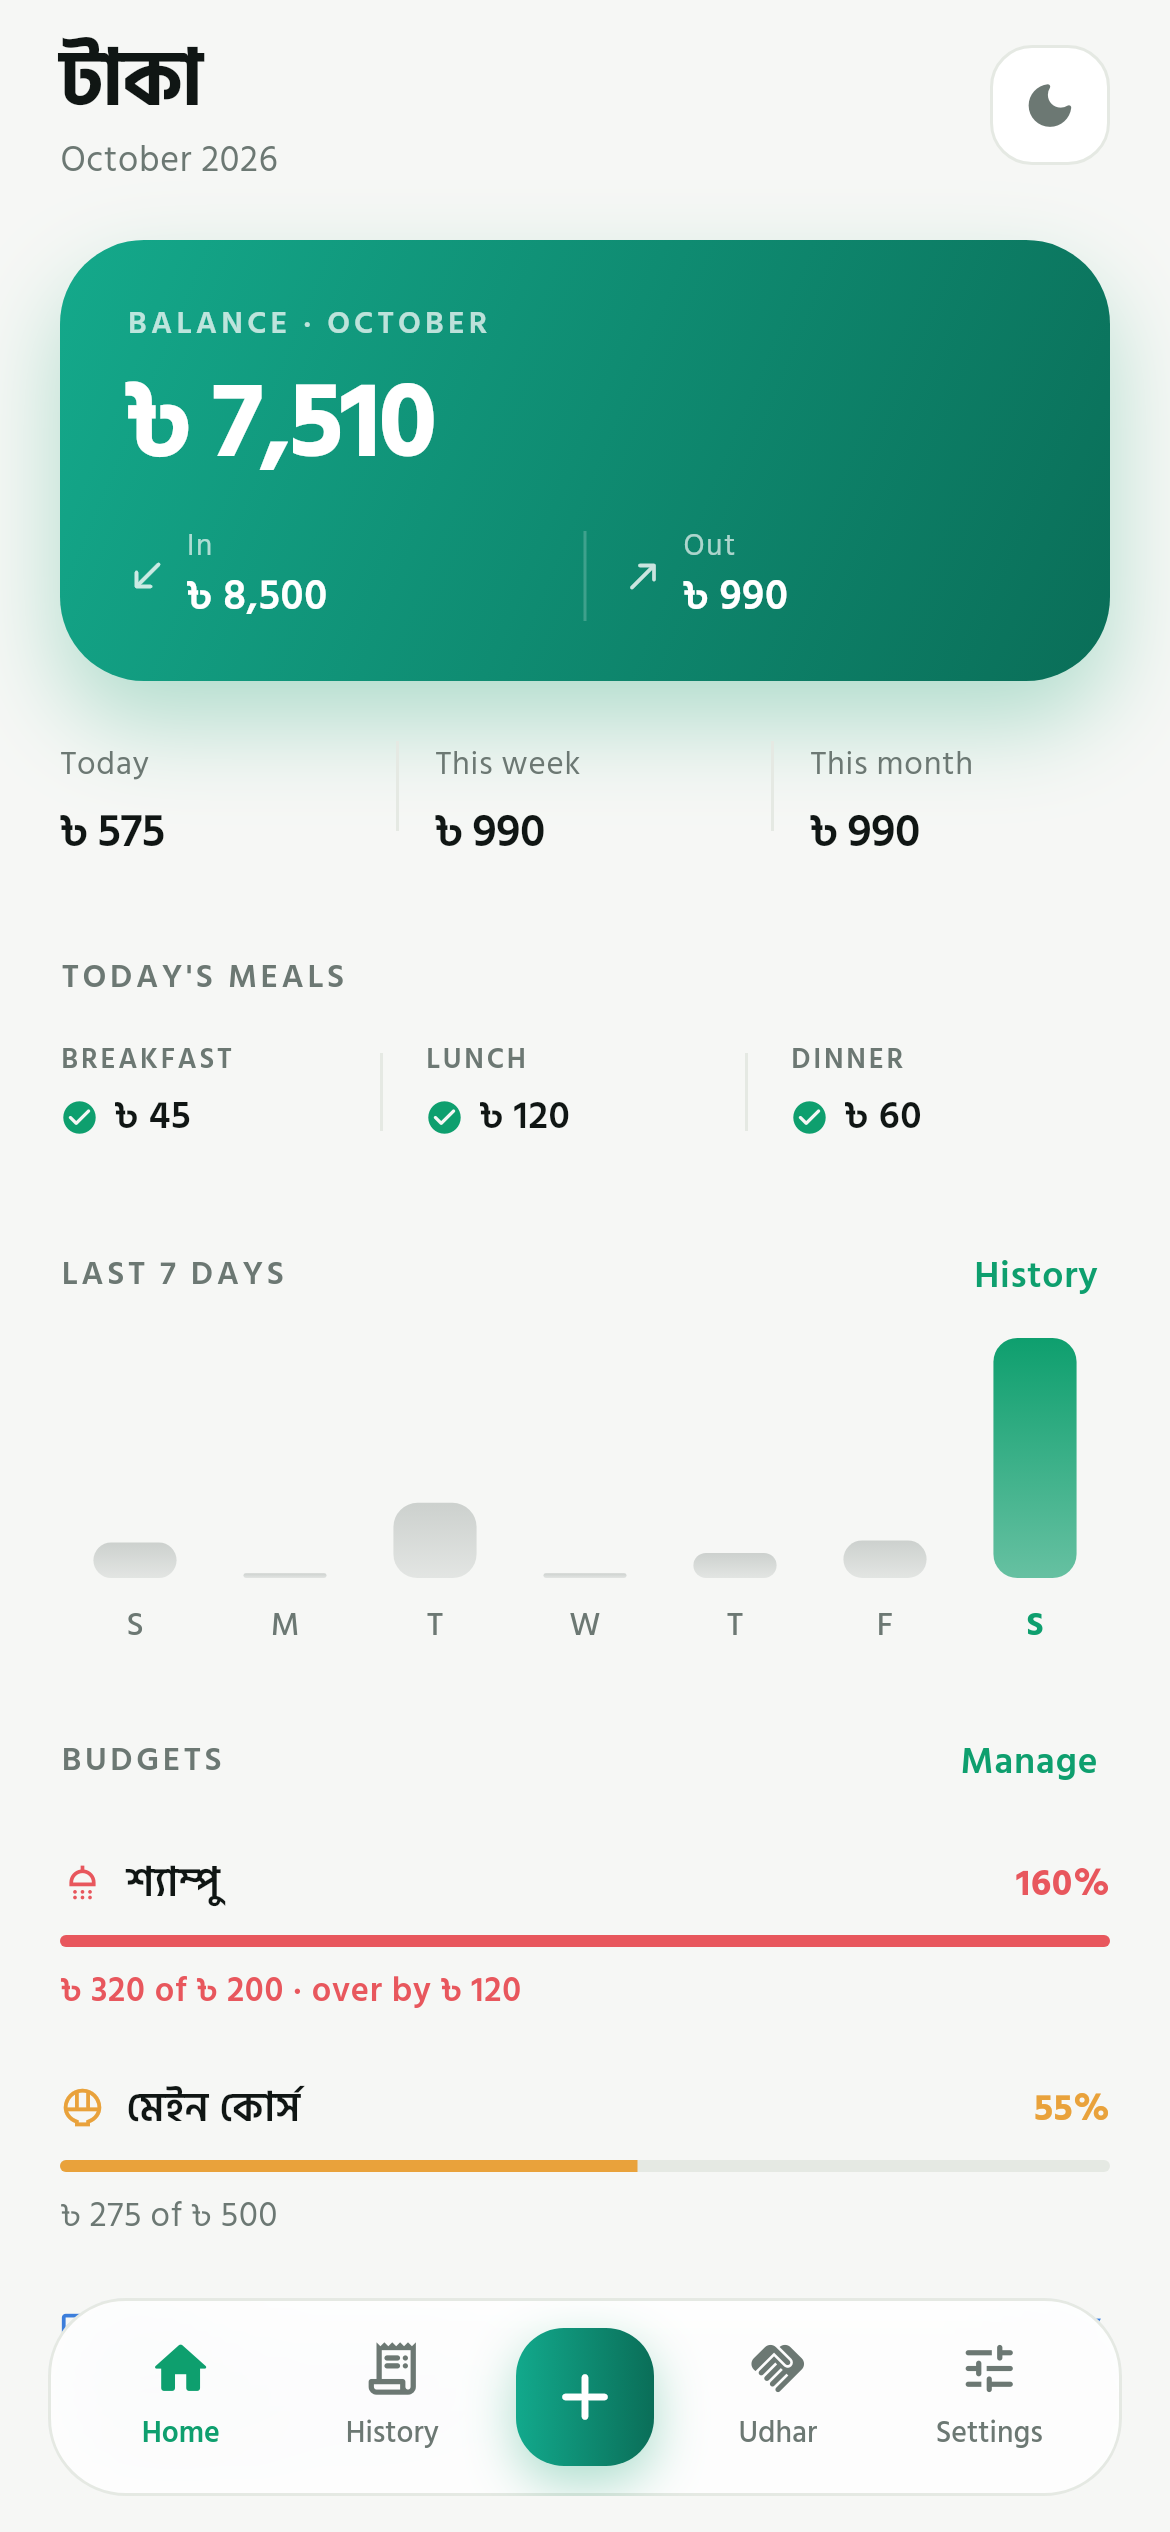
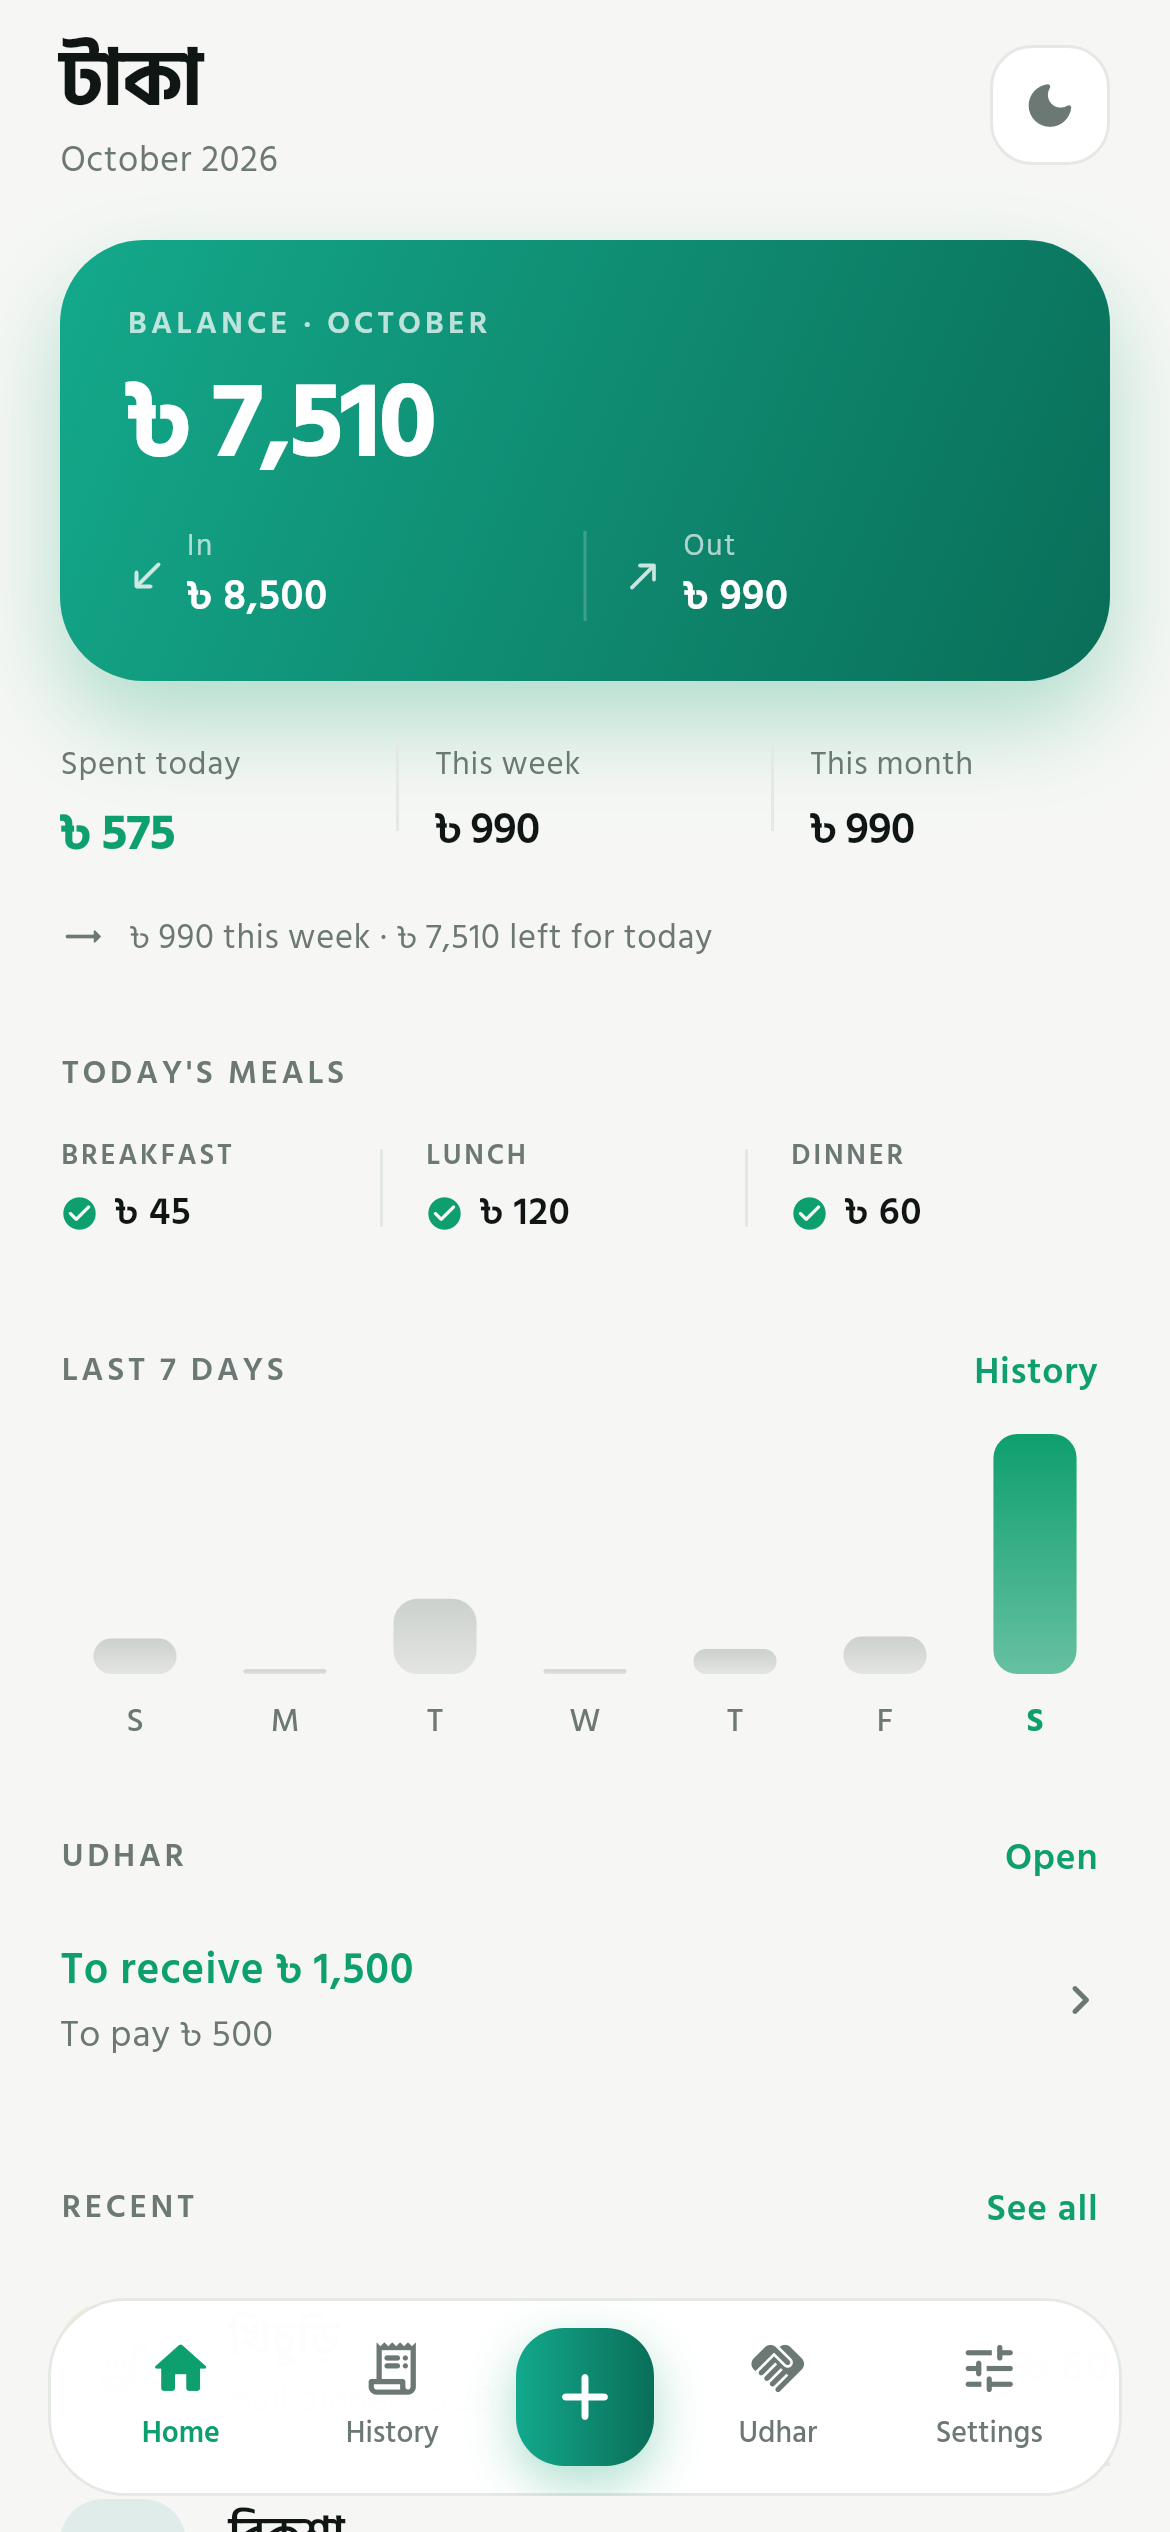
docs: v1.3.0 — screenshots, changelog, corrected counts
Fresh goldens for every screen, plus the landscape and post-save shots the
changelog describes. README: the Home blurb no longer claims budget bars on
the first screen, budgets are described as living in Settings, the schema is
v4, the migration note explains why column additions run before seeding, and
the test table names the new food-rule suite. Version 1.3.0+4.

diff --git a/lib/core/app_info.dart b/lib/core/app_info.dart
@@ -6,7 +6,7 @@ class AppInfo {
   static const String name = 'Taka';
   static const String nameBn = 'টাকা';
   static const String tagline = 'Amar taka gelota koi?';
-  static const String version = '1.2.0';
+  static const String version = '1.3.0';
 
   /// The person this was built for, and by.
   static const String author = 'Mazidul Islam Mahim';

diff --git a/README.md b/README.md
@@ -12,8 +12,8 @@ much of the month is left.
 ![Flutter](https://img.shields.io/badge/Flutter-3.47-02569B?logo=flutter&logoColor=white)
 ![Dart](https://img.shields.io/badge/Dart-3.13-0175C2?logo=dart&logoColor=white)
 ![Android](https://img.shields.io/badge/Android-API%2021%2B-3DDC84?logo=android&logoColor=white)
-![Tests](https://img.shields.io/badge/tests-45%20passing-0E9F6E)
-[![Download APK](https://img.shields.io/badge/download-v1.2.0%20APK-0E9F6E?logo=android&logoColor=white)](https://github.com/mahimmazidul/taka/releases/latest)
+![Tests](https://img.shields.io/badge/tests-58%20passing-0E9F6E)
+[![Download APK](https://img.shields.io/badge/download-v1.3.0%20APK-0E9F6E?logo=android&logoColor=white)](https://github.com/mahimmazidul/taka/releases/latest)
 [![Build & Release](https://github.com/mahimmazidul/taka/actions/workflows/release.yml/badge.svg)](https://github.com/mahimmazidul/taka/actions/workflows/release.yml)
 
 ---
@@ -40,9 +40,17 @@ refreshed whenever the UI changes. No mockups.
 |---|---|
 | ![Categories](docs/screenshots/categories.png) | ![Settings](docs/screenshots/settings.png) |
 
-| About | Small phone (320 × 568) |
+| Add entry (after saving) | Landscape |
 |---|---|
-| ![About](docs/screenshots/about.png) | ![Small phone](docs/screenshots/home_small.png) |
+| ![Add entry, saved](docs/screenshots/add_entry_saved.png) | ![Add entry in landscape](docs/screenshots/add_entry_landscape.png) |
+
+| Home (landscape) | Small phone (320 × 568) |
+|---|---|
+| ![Home in landscape](docs/screenshots/home_landscape.png) | ![Small phone](docs/screenshots/home_small.png) |
+
+| About | |
+|---|---|
+| ![About](docs/screenshots/about.png) | |
 
 ---
 
@@ -97,11 +105,12 @@ Plus three that sit on the top row themselves — **বাইরের খাব
 **লন্ড্রি · Laundry**, **অন্যান্য · Other** — and six income sources (বাসা থেকে,
 টিউশন, বৃত্তি, ফ্রিল্যান্স, উপহার, অন্যান্য).
 
-**See where the month went.** A hero balance, today / week / month, a 7-day chart,
-today's meals, the budget bars closest to their limit, udhar and the last five
-entries.
+**See where the month went.** A hero balance, **spent today** / week / month, a
+one-line nudge (`৳ 990 this week · ৳ 250 a day left`), today's meals, a 7-day
+chart, udhar and the last five entries. No limit, no progress bar — opening the
+app should not feel like being told off.
 
-**Budgets that roll up.** Cap a whole group (food: ৳ 5,000) or a single item
+**Budgets that roll up — in Settings, not on the way in.** Cap a whole group (food: ৳ 5,000) or a single item
 (shampoo: ৳ 200). Amber at 80%, red and "over by ৳ x" past the limit.
 
 **History that answers questions.** Grouped by day with per-day totals, live note
@@ -160,7 +169,7 @@ Quality gates used in CI:
 
 ```bash
 flutter analyze                               # 0 issues
-flutter test --concurrency=1                  # 45 tests
+flutter test --concurrency=1                  # 58 tests
 dart format --output=none --set-exit-if-changed lib test
 ```
 
@@ -216,11 +225,11 @@ Five runtime dependencies, all of them boring: `sqflite` (local SQLite), `path`,
 Android's share sheet) and `file_picker` 13 (pick a JSON file to restore). No
 state-management package, no chart package, no HTTP client, no analytics.
 
-### Data model (SQLite `taka.db`, schema v3)
+### Data model (SQLite `taka.db`, schema v4)
 
 ```sql
 categories(id, name, name_bn, icon, color, kind, budget_minor,
-           sort_order, parent_id, is_group)
+           sort_order, parent_id, is_group, food)
 transactions(id, type, amount_minor, category_id, note,
              occurred_at, created_at, updated_at, meal)
 udhar_entries(id, type, person, amount_minor, note, occurred_at,
@@ -248,24 +257,29 @@ be unforgivable:
 1. **Category ids are never renamed.** When the flat list became groups, ভাত kept
    `id = 'rice'`; it only gained `parent_id = 'g_main'`. Every old transaction still
    points at the right category.
-2. **Seeding is additive and runs on every open.** Any seeded category missing from
+2. **Column additions run before seeding.** Every later step writes a full seed
+   row, so a v2 file that jumped straight to v4 tried to insert a column that did
+   not exist yet. The order is now column, then data.
+3. **Seeding is additive and runs on every open.** Any seeded category missing from
    the database is inserted; nothing that already exists is ever overwritten — your
    names, colours and limits win.
-3. **Migrations are idempotent.** Columns are added only if absent, so an
+4. **Migrations are idempotent.** Columns are added only if absent, so an
    interrupted upgrade cannot leave a database that refuses to open.
 
 `test/database_test.dart` builds a v2 database by hand, reopens it with the current
-code and asserts the old entry, its category and its budget all survived.
+code and asserts the old entry, its category and its budget all survived — now
+through two upgrades, v2 → v4.
 
 ### Tests
 
-45 tests, all offline (29 logic + database, 6 screen, 10 golden):
+58 tests, all offline (26 logic, 23 database and food rules, 8 screen, 13 golden):
 
 | File | Covers |
 |---|---|
 | `test/logic_test.dart` | money formatting, exact keypad→paisa conversion, date helpers, budget thresholds, labels |
 | `test/database_test.dart` | the real schema and SQL on SQLite: seeds and the category tree, CRUD, totals, per-day buckets, filters, category reassignment and group deletion, udhar settlement, settings, backup round-trip, CSV, and the v2 → v3 migration |
-| `test/screens_test.dart` | the whole app at 320 / 360 / 414 / 768 widths, 1.3× text scale, tab switching, adding an entry end-to-end, dark-mode toggle |
+| `test/food_logic_test.dart` | the meal rule: which categories may take a meal, that a non-food entry never lands in a meal total even if an old row stored one, why noodles and egg exist twice, and that `today` really resets at midnight |
+| `test/screens_test.dart` | the whole app at 320 / 360 / 414 / 768 widths **and in landscape**, 1.3× text scale, tab switching, adding an entry end-to-end, the meal row disappearing for a face wash, dark-mode toggle |
 | `test/golden_test.dart` | every screenshot in this README |
 
 ---
@@ -280,6 +294,20 @@ code and asserts the old entry, its category and its budget all survived.
 
 ## Changelog
 
+- **v1.3.0** — the correctness release. Meal tags are now a property of the
+  category (`food`), not a guess: a face wash can no longer be logged as
+  breakfast, and the meal strip only counts food money. Added noodles and egg to
+  snacks (noodles also to main course). The entry screen stays open after saving
+  with an inline `Added ভাত · ৳45` strip, so ভাত + মাছ + a drink is three taps
+  each and one Done; Save moved into the keypad's bottom row. Home lost the
+  budgets block and gained `Spent today` plus a one-line weekly nudge. Launch no
+  longer flashes black (the Android window and Flutter's first frame share the
+  same colour, and the database read happens after the first frame). Landscape
+  reflows: two columns on Home, form-and-pad side by side on the entry screen,
+  shorter tab bar, capped line lengths. Scrolling got lighter — the tab bar blur
+  is gone and History builds one list item per row instead of one per day.
+  Settings and About values sit flush right. Ten new logic tests, including a
+  v2 → v4 migration test.
 - **v1.2.0** — new launcher icon (rendered from `tool/make_icon.py`), animated tab
   changes and richer page transitions, credit corrected to Mazidul Islam Mahim.
 - **v1.1.0** — two-level categories (groups + items, 90+ seeded items), meal tags
